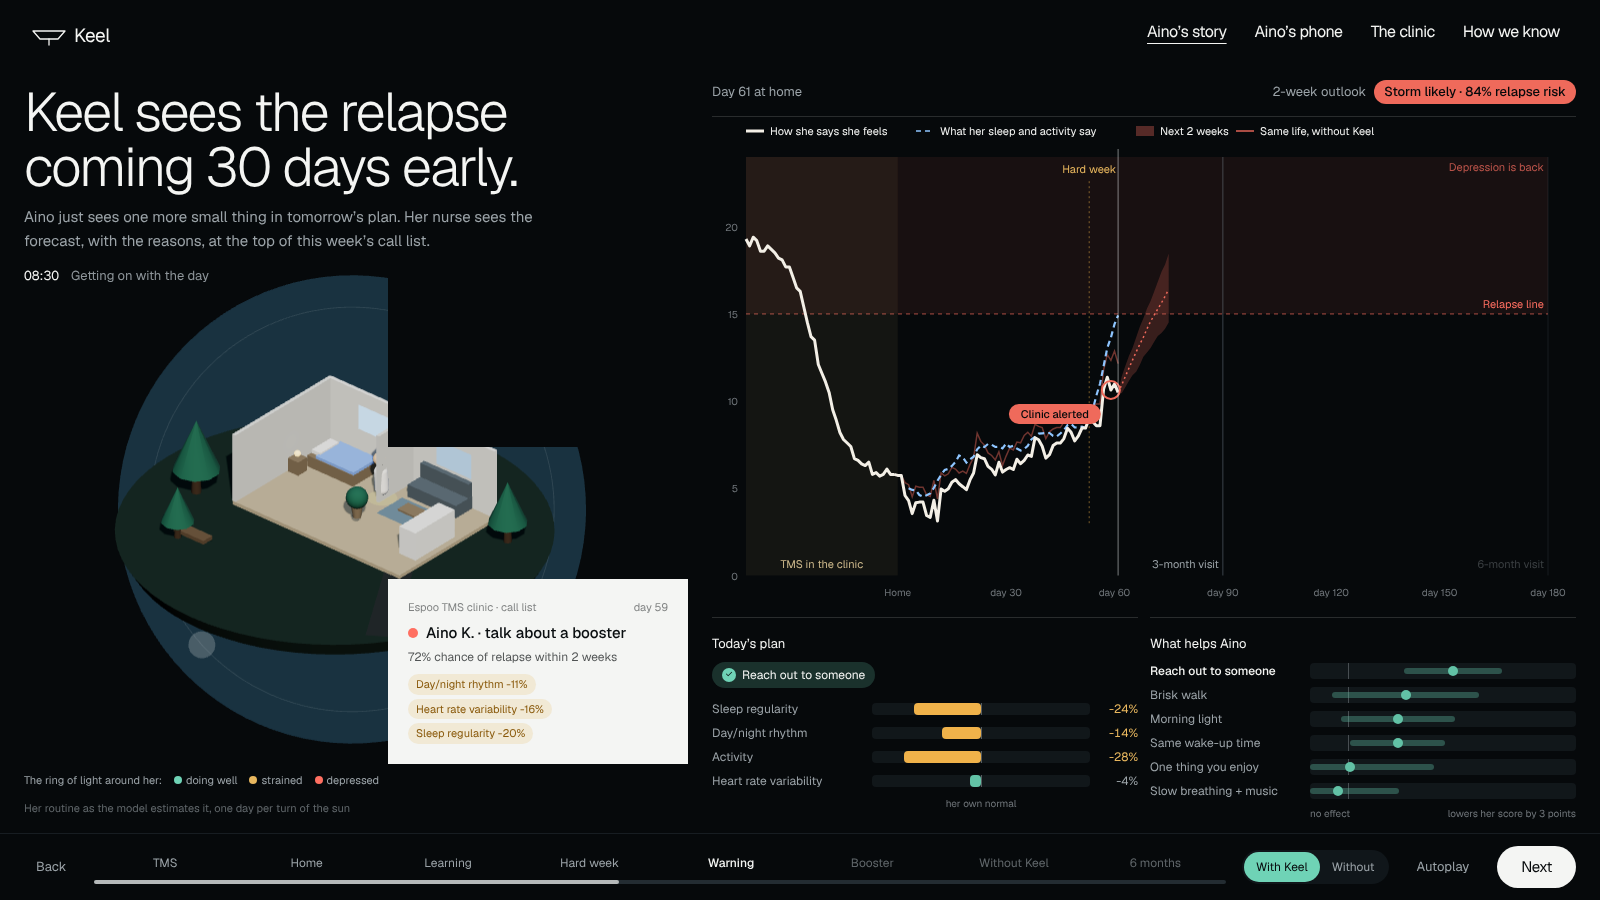
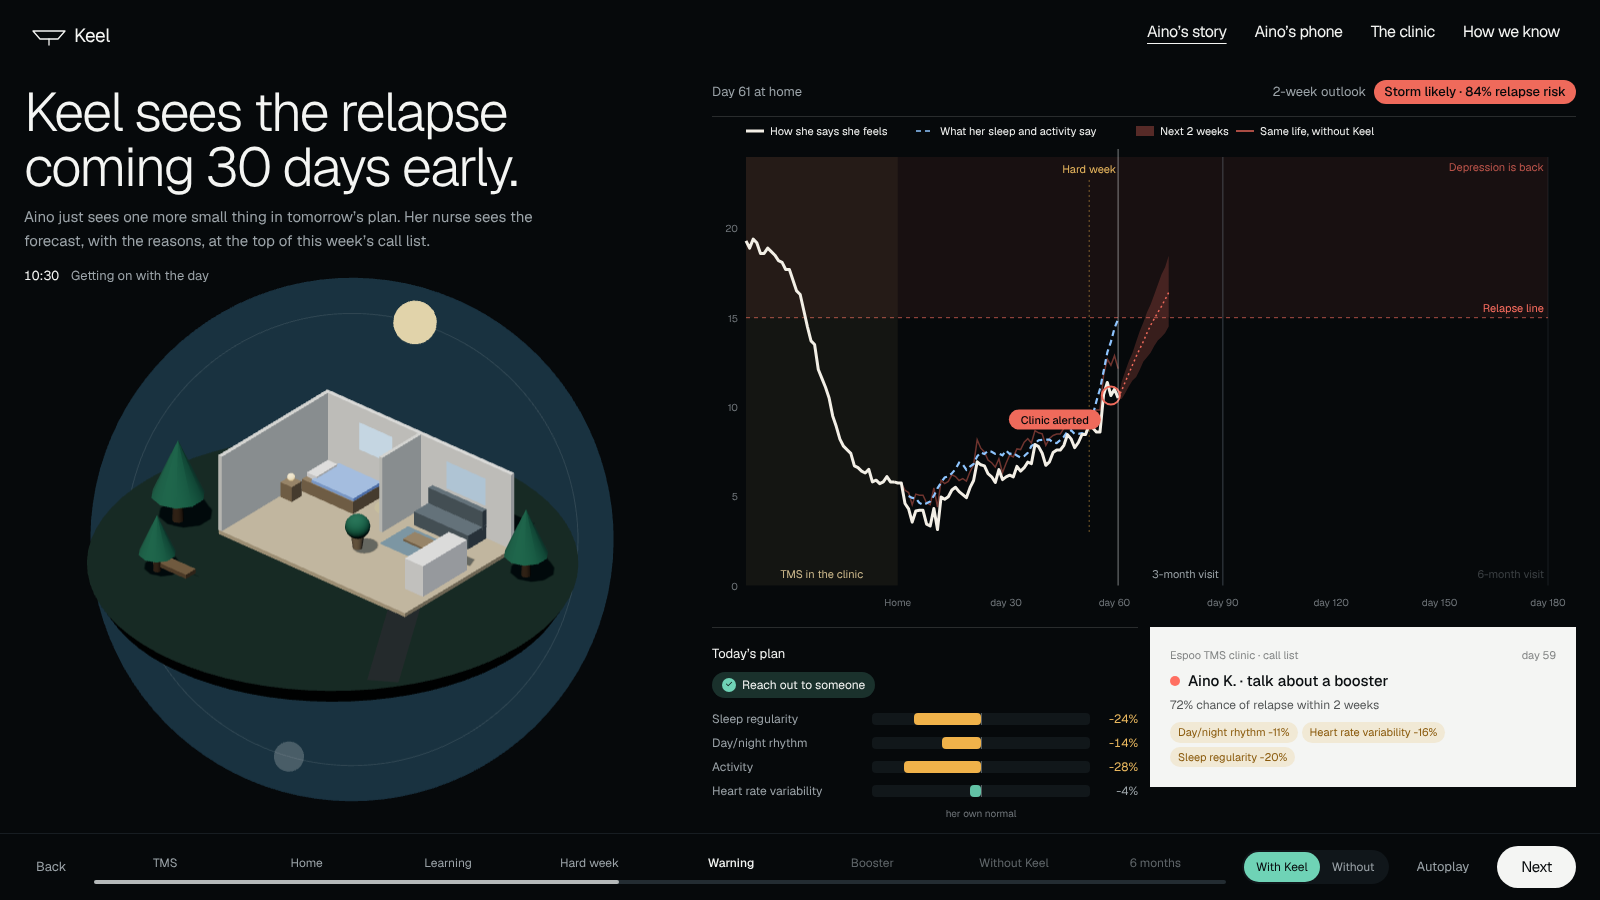
UI audit: story panels fit above the timeline, clinic card in the panel row, mobile nav, clinic rows and labels
Claude-Session: https://claude.ai/code/session_01YX7ZhujLr8GwJBjNSDXsE6

diff --git a/frontend/src/story/StoryPage.tsx b/frontend/src/story/StoryPage.tsx
@@ -100,12 +100,11 @@ export default function StoryPage({ story }: { story: Story }) {
                 <span key={act.what} className="fade-in ml-3 text-mist">{act.what}</span>
               </div>
             )}
-            {ch.id === 'warning' && story.events.alert != null && d >= story.events.alert && <ClinicToast story={story} />}
           </div>
         </section>
 
         {/* right: what is measured, forecast, what is done */}
-        <section className="flex min-h-0 min-w-0 flex-col gap-3 px-4 pb-3 pt-4 sm:px-5 lg:pl-2 lg:pr-6">
+        <section className="flex min-h-0 min-w-0 flex-col gap-3 px-4 pb-3 pt-4 sm:px-5 lg:overflow-hidden lg:pl-2 lg:pr-6">
           <div className="flex flex-wrap items-baseline justify-between gap-2">
             <div className="text-[13px] text-mist">
               {ci === 0 ? <>Before treatment</> : d < 0 ? <>TMS course · week {Math.floor((d + 42) / 7) + 1}{sessionNo ? `, session ${sessionNo} of 30` : ''}</> : <>Day {d} at home</>}
@@ -119,7 +118,7 @@ export default function StoryPage({ story }: { story: Story }) {
               </div>
             )}
           </div>
-          <div className="min-h-[300px] flex-1 border-t border-foam/15">
+          <div className="min-h-[260px] flex-1 border-t border-foam/15 lg:min-h-[150px]">
             <MoodChart story={story} day={day} world={world} />
           </div>
 
@@ -148,12 +147,11 @@ export default function StoryPage({ story }: { story: Story }) {
               </div>
               {world === 'none' && d >= 0 ? (
                 <Unnoticed story={story} day={d} />
+              ) : ch.id === 'warning' && story.events.alert != null && d >= story.events.alert ? (
+                <ClinicToast story={story} />
               ) : (
               <div className="border-t border-foam/15 pt-4">
                 <h3 className="mb-2 text-[13px] font-medium text-foam">What helps {story.profile.name}</h3>
-                {d < 1 ? (
-                  <p className="text-[13px] leading-relaxed text-mist">Starts from what helps most people. Her own answers will move these estimates.</p>
-                ) : null}
                 <LearnedBars mean={(keelRec ?? story.keel[0]).learned.mean} sd={(keelRec ?? story.keel[0]).learned.sd} highlight={keelRec?.plan} />
               </div>
               )}
@@ -200,7 +198,7 @@ function ClinicToast({ story }: { story: Story }) {
     return `${RING_WORDS[k]} ${pct > 0 ? '+' : ''}${pct}%`
   })
   return (
-    <div className="fade-in absolute bottom-2 right-4 w-[300px] bg-foam p-5 text-ink">
+    <div className="fade-in self-start bg-foam p-5 text-ink">
       <div className="flex items-center justify-between text-[11px] text-ink/50"><span>Espoo TMS clinic · call list</span><span>day {a}</span></div>
       <div className="mt-1.5 flex items-center gap-2">
         <span className="pulse-ring inline-block h-2.5 w-2.5 rounded-full bg-storm" />
@@ -236,7 +234,6 @@ function Results({ story }: { story: Story }) {
       <div className="space-y-3 text-[13px] leading-snug text-mist">
         <p><span className="font-serif text-[30px] text-foam">{c.forecast.median_warning_days_keel} days</span><br />typical warning before a relapse, against {c.forecast.median_warning_days_checkin_only} from check-ins alone at the same false-alarm rate</p>
         <p><span className="font-serif text-[30px] text-foam">{keel.boosters_per_patient.toFixed(1)}</span> booster blocks per person in 6 months, only when the forecast called for one</p>
-        <p className="text-[11px] text-mist/70">{c.n_patients} simulated patients, calibrated to rTMS durability data, plus a check on real wearable data.</p>
         <a href="#/proof" className="inline-block rounded-full border border-foam px-5 py-2 text-[15px] tracking-[-0.03em] text-foam hover:bg-foam hover:text-sea">How we know</a>
       </div>
     </div>

diff --git a/frontend/src/clinic/ClinicPage.tsx b/frontend/src/clinic/ClinicPage.tsx
@@ -32,20 +32,20 @@ export default function ClinicPage() {
         </div>
         {GROUPS.map((g) => (
           <section key={g.key} className="mb-6">
-            <div className="mb-2 flex items-baseline gap-3">
+            <div className="mb-2 flex flex-wrap items-baseline gap-x-3">
               <h2 className="font-serif text-[24px]">{g.title}</h2>
               <span className="text-[12px] text-ink/50">{g.hint}</span>
             </div>
             <div className="border-t border-ink/15">
               {rows.filter((r) => r.status === g.key).map((r) => (
                 <button key={r.id} onClick={() => setSel(r.id)}
-                  className={`grid w-full grid-cols-[150px_130px_1fr_auto] items-center gap-4 border-b border-ink/5 px-4 py-3 text-left last:border-0 hover:bg-fog/50 ${sel === r.id ? 'bg-fog/70' : ''}`}>
+                  className={`grid w-full grid-cols-[1fr_auto] items-center gap-4 md:grid-cols-[150px_130px_1fr_auto] border-b border-ink/5 px-4 py-3 text-left last:border-0 hover:bg-fog/50 ${sel === r.id ? 'bg-fog/70' : ''}`}>
                   <div>
                     <div className="text-[14px] font-medium">{r.name}</div>
                     <div className="text-[12px] text-ink/50">{r.age} · day {r.day} after TMS</div>
                   </div>
-                  <Spark data={r.spark} status={r.status} />
-                  <div className="flex flex-wrap gap-1">
+                  <div className="hidden md:block"><Spark data={r.spark} status={r.status} /></div>
+                  <div className="hidden flex-wrap gap-1 md:flex">
                     {r.reasons.slice(0, 3).map((x) => (
                       <span key={x.text} className={`mr-3 text-[12px] ${x.kind === 'mood' ? 'text-[#b5443a]' : 'text-ink/60'}`}>{x.text}</span>
                     ))}

diff --git a/frontend/src/App.tsx b/frontend/src/App.tsx
@@ -30,12 +30,12 @@ export default function App() {
   if (route === 'home') return <Landing />
   return (
     <div className={`grid h-full grid-rows-[auto_1fr] ${light ? 'bg-fog text-ink' : 'bg-sea text-foam'}`}>
-      <header className="flex items-center gap-4 px-4 py-4 sm:gap-8 sm:px-8">
-        <a href="#/" className="flex items-baseline gap-2">
+      <header className="flex min-w-0 items-center gap-4 px-4 py-4 sm:gap-8 sm:px-8">
+        <a href="#/" className="flex shrink-0 items-baseline gap-2">
           <Logo light={light} />
-          <span className="text-[19px] leading-none tracking-[-0.02em]">Keel</span>
+          <span className="hidden text-[19px] leading-none tracking-[-0.02em] sm:inline">Keel</span>
         </a>
-        <nav className="ml-auto flex items-center gap-1 text-[13px] sm:gap-3 sm:text-[16px]">
+        <nav className="ml-auto flex min-w-0 items-center gap-1 overflow-x-auto text-[13px] sm:gap-3 sm:text-[16px]">
           {([['story', 'Aino’s story'], ['phone', 'Aino’s phone'], ['clinic', 'The clinic'], ['proof', 'How we know'], ...(hasRing ? [['ring', 'Your ring']] : [])] as [Route, string][]).map(([r, label]) => (
             <a key={r} href={`#/${r}`} aria-current={route === r ? 'page' : undefined}
               className={`whitespace-nowrap px-1.5 py-1 tracking-[-0.03em] decoration-1 underline-offset-[6px] sm:px-2 ${route === r ? 'underline' : 'hover:underline'} ${light ? 'text-ink' : 'text-foam'}`}>

diff --git a/frontend/src/story/MoodChart.tsx b/frontend/src/story/MoodChart.tsx
@@ -116,10 +116,10 @@ export default function MoodChart({ story, day, world }: { story: Story; day: nu
         {/* legend */}
         <g transform={`translate(${m.l},14)`} className="text-[11px]">
           <line x1={0} x2={18} y1={0} y2={0} stroke="#f3efe6" strokeWidth={3} />
-          <text x={24} y={4} className="fill-foam">How she says she feels</text>
-          {day >= 3 && (<g transform="translate(170,0)">
+          <text x={24} y={4} className="fill-foam">{W > 460 ? 'How she says she feels' : 'She says'}</text>
+          {day >= 3 && (<g transform={`translate(${W > 460 ? 170 : 96},0)`}>
             <line x1={0} x2={18} y1={0} y2={0} stroke="#8ec5ff" strokeWidth={1.6} strokeDasharray="5 4" />
-            <text x={24} y={4} className="fill-foam">What her sleep and activity say</text>
+            <text x={24} y={4} className="fill-foam">{W > 460 ? 'What her sleep and activity say' : 'Her ring says'}</text>
           </g>)}
           {day >= 14 && W > 620 && (<g transform="translate(390,0)">
             <rect x={0} y={-5} width={18} height={10} fill={fc} opacity={0.35} />

diff --git a/frontend/src/proof/ProofPage.tsx b/frontend/src/proof/ProofPage.tsx
@@ -237,8 +237,8 @@ function OutcomeBar({ outcomes, n }: { outcomes: Evidence['evidence']['outcomes'
   return (
     <div className="mt-5 flex h-8 overflow-hidden rounded-full text-[12px]" title={`All ${n} virtual patients`}>
       {OUT.map((o) => outcomes[o.k] > 0 && (
-        <div key={o.k} className={`flex items-center overflow-hidden whitespace-nowrap px-3 ${o.t}`} style={{ width: `${(outcomes[o.k] / n) * 100}%`, background: o.c }} title={`${o.label}: ${outcomes[o.k]}`}>
-          {outcomes[o.k] / n > 0.08 && <>{outcomes[o.k]} {o.label}</>}
+        <div key={o.k} className={`flex min-w-0 items-center overflow-hidden whitespace-nowrap px-3 ${o.t}`} style={{ width: `${(outcomes[o.k] / n) * 100}%`, background: o.c }} title={`${o.label}: ${outcomes[o.k]}`}>
+          {outcomes[o.k] / n > 0.08 && <span className="truncate">{outcomes[o.k]} {o.label}</span>}
         </div>
       ))}
     </div>

diff --git a/frontend/src/story/Panels.tsx b/frontend/src/story/Panels.tsx
@@ -24,10 +24,12 @@ export function LearnedBars({ mean, sd, dark = true, highlight, you = false }: {
           </div>
         )
       })}
-      <div className={`grid ${you ? 'grid-cols-[8rem_1fr]' : 'grid-cols-[9.5rem_1fr]'} gap-2 text-[10px] ${dark ? 'text-mist/70' : 'text-ink/50'}`}>
-        <span />
-        <div className="flex justify-between gap-2"><span>no effect</span><span className="text-right">{you ? 'helps a lot' : 'lowers her score by 3 points'}</span></div>
-      </div>
+      {you && (
+        <div className="grid grid-cols-[8rem_1fr] gap-2 text-[10px] text-ink/50">
+          <span />
+          <div className="flex justify-between gap-2"><span>no effect</span><span className="text-right">helps a lot</span></div>
+        </div>
+      )}
     </div>
   )
 }

diff --git a/frontend/src/phone/KeelApp.tsx b/frontend/src/phone/KeelApp.tsx
@@ -141,7 +141,7 @@ function PathView({ st, notes, onDay }: { st: LiveState; notes: Record<number, s
 
   return (
     <div ref={ref} className="absolute inset-0 overflow-y-auto overflow-x-hidden pt-24">
-      <svg width={W} height={H} className="mx-auto block">
+      <svg viewBox={`0 0 ${W} ${H}`} className="mx-auto block h-auto w-full max-w-[366px]">
         {/* eras */}
         <rect x={0} y={yTms(0) - 16} width={W} height={(TMS_ROWS + 1) * STEP + 20} fill={BRASS} opacity={0.1} />
         <text x={16} y={yTms(0) - 2} fontSize={10} fill={BRASS} letterSpacing="0.02em">TMS course · 30 sessions</text>
